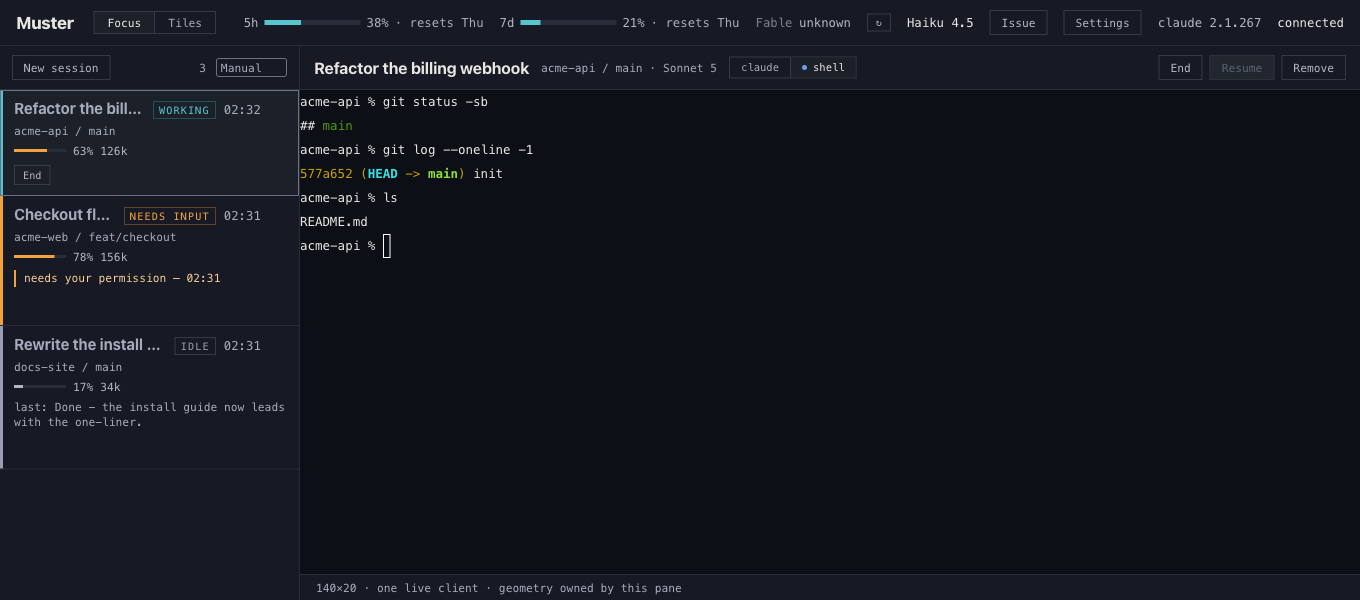
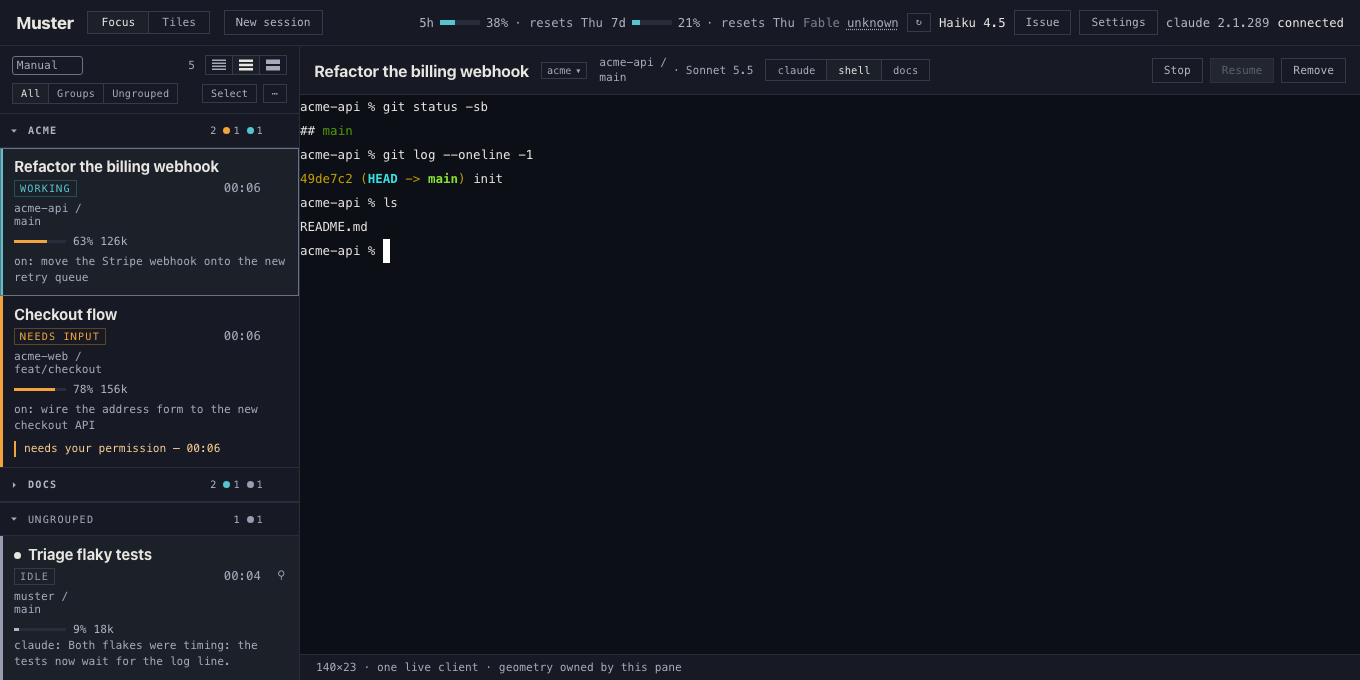
docs(readme): refresh the dashboard screenshot to show rail groups and the current UI
Claude-Session: https://claude.ai/code/session_01XF6wP3wqqdwNr2LRkuEdZc

diff --git a/README.md b/README.md
@@ -4,7 +4,7 @@ A session manager for concurrent Claude Code sessions: a Go daemon (`musterd`) p
 dashboard, with interactive terminal panes backed by tmux. One place to see which session
 is working, which one is waiting on you, and how much context each has left.
 
-![The Muster dashboard — three sessions in the rail, one focused with a live terminal pane](https://raw.githubusercontent.com/Zalaras/muster/main/docs/images/dashboard.png)
+![The Muster dashboard — five sessions in the rail, grouped into acme, Docs and Ungrouped, one focused with a live shell pane](https://raw.githubusercontent.com/Zalaras/muster/main/docs/images/dashboard.png)
 
 Personal tool, macOS only, single user. Not a product. What remains before v1 is in
 [`TODO.md`](TODO.md).
